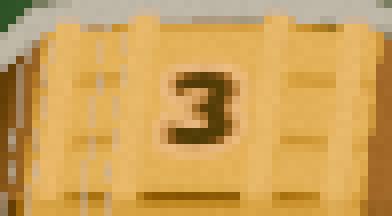
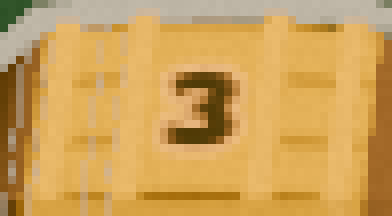
Paint the keg Twin glyph cream and fade the other stave in the still.
The keg glyph is cream #E8DCC0 with Twin strength and halo at 0. The mask's G channel is emission only, so it stays off. The capture emits settled so KegStaveDim dims the neighbouring 2.

Changed region(s): [[0.3673, 0.8889, 0.6122, 0.9722]]

diff --git a/docs/ARCHITECTURE.md b/docs/ARCHITECTURE.md
@@ -310,7 +310,7 @@ that you add gets a row in [AI_CONTENT_LOG.md](AI_CONTENT_LOG.md).
 - **Powder Keg readability:** the barrel (die id `powder_keg`, body shape `keg`) is read from the stave pointing up (values 1, 1, 2, 2, 3, 3). That stave faces the sky, so the angled camera sees a neighbouring stave (a different number) more face-on. Two readouts, no new signals, and no extra glow (emission stays the normal scoring glow, <= 0.3):
   - `scripts/table3d/keg_value_tag.gd` (`KegValueTag`, child `KegValueTag` of the die, a `D4ValueTag`) is an unlit camera-facing label of `DieVisual.shown_value()`. `PolyBody.dress` attaches it.
   - `scripts/table3d/keg_stave_dim.gd` (`KegStaveDim`, child `KegStaveDim`) listens to the die's existing `settled` signal and to the table's existing `throw_started`. On settle it sets instance uniforms `lit_stave` (the face value 1, 2 or 3) and `stave_dim` (0..1, about 0.15 s, instant under reduced motion or Instant speed) on that die's body mesh. `shaders/3d/keg_stave_dim.gdshaderinc`, included by both `toon_noir.gdshader` and `toon_noir_twin.gdshader`, fades numeral ink in the other atlas cells toward the stave wood (value v lives in cell v−1; about 30% contrast remains). Lids and hoops are not numeral cells, so they stay. While the keg is rolling, and on every other die, both uniforms stay 0 and every numeral is full. `KegStaveDim` also sets instance uniform `keg_body` to 1 on that mesh only, and sets the body's `spec_strength` to 0.05. Specular and rim then stay off every mustard stave cell, including the gutter cells between the numerals. Only the lids (atlas cell 23) and the hoops (cell 24) keep a shine, and that shine is a soft lobe (`smoothstep(0.40, 0.82, N·H)`) instead of the bone die's hard step at `spec_size` 0.97. Other dice are unchanged. No emission is added. A new throw clears them at once. The separate rare "Powder Barrel" d6 (`barrel`) is not this die. Tests: `tests/test_keg_readable.gd`, `tests/test_keg_stave_dim.gd`.
-- **Powder Keg Twin Face:** `art/models/dice/materials/powder_keg_body.tres` uses `shaders/3d/toon_noir_twin.gdshader` with `twin_mask` = `art/fx/twin_face/powder_keg_twin_mask.png` (UV1, 1024, marks in cell 2 / the 3s only). `DieArtMaterial.apply` puts that material on the die only when a face is carved Twin, and adds a `TwinFaceGlow` child that listens to the die's existing `settled` / `impact` signals. A keg with no Twin carve stays on `toon_noir` with the same body colours. No new signal. On this keg only, `twin_strength` and `twin_halo_strength` are 0 and `twin_unlit` is dark brass `#3A2E24` (mask R only, not the whole stave). Shared TwinFaceGlow defaults stay 1.6 and `#403440`. `KegStaveDim` still sets `lit_stave`, `stave_dim`, `keg_body` and `spec_strength` 0.05 on that twin material. `emission_energy` stays the scoring glow (<= 0.3). Test: `tests/test_keg_twin_mask.gd`.
+- **Powder Keg Twin Face:** `art/models/dice/materials/powder_keg_body.tres` uses `shaders/3d/toon_noir_twin.gdshader` with `twin_mask` = `art/fx/twin_face/powder_keg_twin_mask.png` (UV1, 1024, marks in cell 2 / the 3s only). `DieArtMaterial.apply` puts that material on the die only when a face is carved Twin, and adds a `TwinFaceGlow` child that listens to the die's existing `settled` / `impact` signals. A keg with no Twin carve stays on `toon_noir` with the same body colours. No new signal. On this keg only, `twin_strength` and `twin_halo_strength` are 0 and `twin_unlit` is cream `#E8DCC0` (mask R only, not the whole stave). The mask's G halo has no separate unlit colour, so it stays off and the mark is plain cream. Shared TwinFaceGlow defaults stay 1.6 and `#403440`. `KegStaveDim` still sets `lit_stave`, `stave_dim`, `keg_body` and `spec_strength` 0.05 on that twin material. `emission_energy` stays the scoring glow (<= 0.3). Test: `tests/test_keg_twin_mask.gd`.
 - **Nerve panel dodge (#198):** `NerveUi._place_panels` puts the "Nerve ready" pip and the rescue prompt at their home spot, then through `RulesPlaqueDodge.place(rect, blockers, view)` (left, below, above, right; else least overlap). The blockers (`NerveUi._blockers`) are the landed dice (`RulesPlaqueDodge.die_rect`) plus `HudTextRects.collect`, minus the Nerve UI's own labels and the bounty cards it hangs under. Target HUD v2.1: the goal plate (grown 24 px) is a blocker too, Nerve re-places in the same frame the plate or SEALS chip moves (`item_rect_changed`), and when all 4 spots overlap the dodge sweeps for the first clear spot. Test: `tests/test_target_hud.gd`. Test: `tests/test_nerve_die_clear.gd` (PC 16:9 and phone 844x390, d4 parked under the pip).
 
 <!-- SECTION: VFX Dev — FX (owner text; replace freely) -->

diff --git a/scripts/fx/README.md b/scripts/fx/README.md
@@ -125,7 +125,7 @@ Lit core: albedo lerps to near-black (`0.02`) by `R * gate` so the lamp does not
 
 1. `art/fx/twin_face/powder_keg_twin_mask.png` is the shipped UV1 mask (mark in the **3's cell**, index 2). The stand-in stays for the older glow tests. Import is non-colour / lossless / mipmaps.
 2. `powder_keg_body.tres` points at `res://shaders/3d/toon_noir_twin.gdshader` with `twin_mask` set. Ink outline `next_pass` and the face atlas stay. Ink stays in albedo, not in the mask.
-3. `DieArtMaterial` uses that material only when the die has a Twin carve. A keg with no Twin carve keeps `toon_noir` and the same body colours. After `bind_material`, the keg sets `twin_strength` and `twin_halo_strength` to 0 and `twin_unlit` to `#3A2E24`. Other Twin dice keep the defaults in the table above. `emission_energy` is not raised.
+3. `DieArtMaterial` uses that material only when the die has a Twin carve. A keg with no Twin carve keeps `toon_noir` and the same body colours. After `bind_material`, the keg sets `twin_strength` and `twin_halo_strength` to 0 and `twin_unlit` to cream `#E8DCC0`. The G halo is emission only, so it is not given its own colour. Other Twin dice keep the defaults in the table above. `emission_energy` is not raised.
 4. Runtime: `TwinFaceGlow` → `bind_material(body_mat)` → `bind_die(die_visual)` (settled lights it, impact clears it). Stave normals outward.
 
 ### Tests / capture
